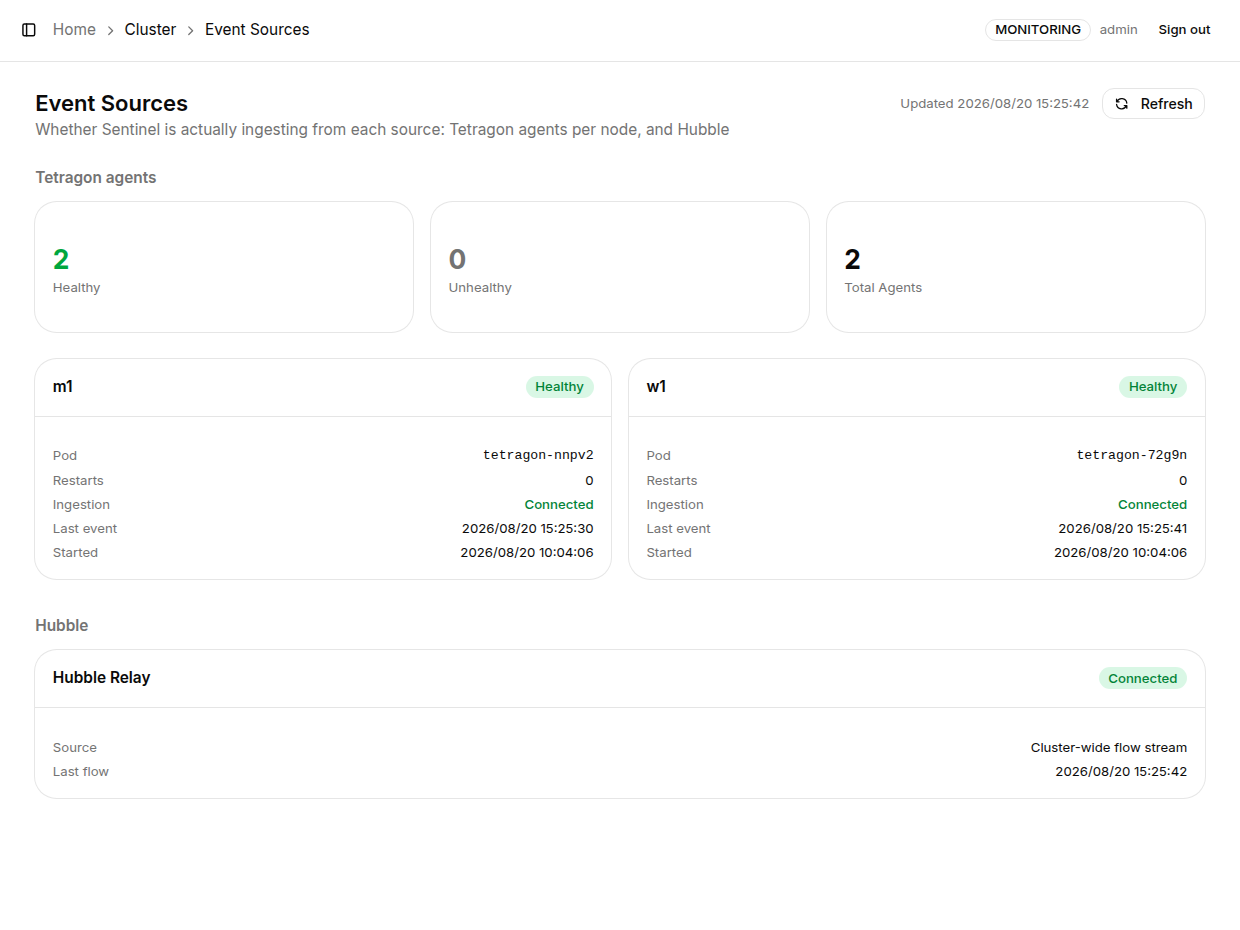
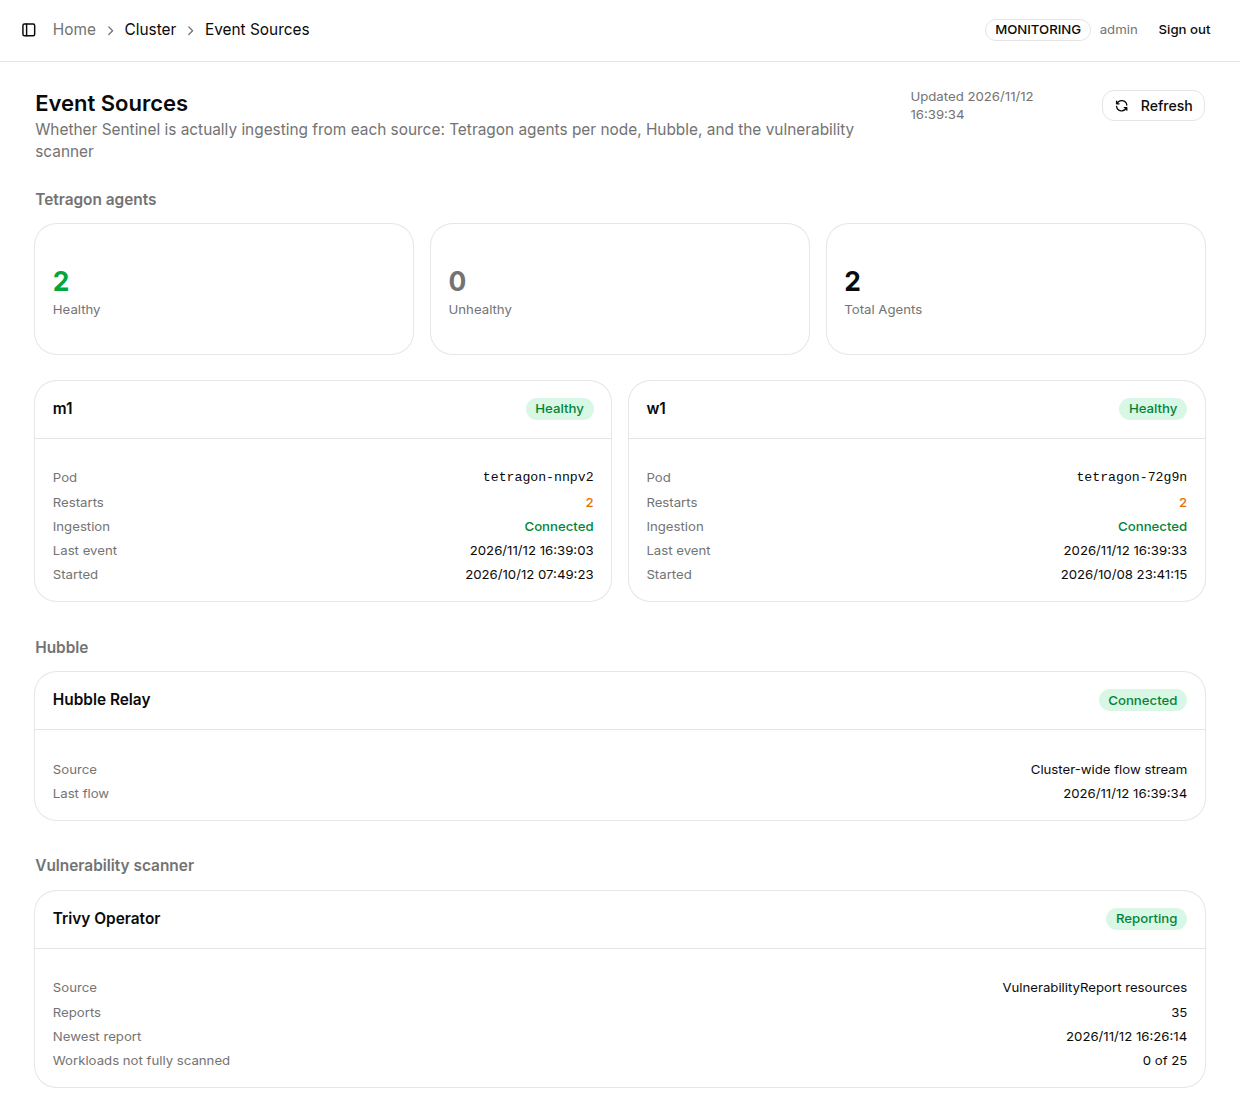
docs: add vulnerability/registry screenshots from the live demo and sync v0.64.0

diff --git a/i18n/en/docusaurus-plugin-content-docs/current/features/vulnerabilities.md b/i18n/en/docusaurus-plugin-content-docs/current/features/vulnerabilities.md
@@ -18,6 +18,10 @@ This feature only **presents and orders** results; it does not block deployments
 
 ## Ordering and Reading the List
 
+![Vulnerabilities Workloads list](/img/features/vulnerabilities/workloads.png)
+
+The summary line above the list shows the number of workloads, the Critical and High totals, and the number of workloads that are "critical and exposed". When a workload has several images, the `Image` column shows the first one with "+N more".
+
 The list columns are `Workload`, `Namespace`, `Image`, `Critical`, `High`, `Medium`, `Low`, `Unknown`, `Fixable` and `Scanned`.
 
 | Behavior | Description |
@@ -49,14 +53,16 @@ The image has to be the same: same repository and tag (or digest); when the repo
 |---|---|
 | **Search workload or image...** | Search by workload name or image |
 | **Namespace filter** | Several namespaces can be selected at once |
-| **Severity** | `Critical` / `High` / `Medium` / `Low` / `Unknown` |
-| **Show only** | `Exposed`, `Fix available`, `Not fully scanned`; the flags can be combined, for example Exposed plus Fix available is a to-do list |
+| **Filter → Severity** | `Critical` / `High` / `Medium` / `Low` / `Unknown` |
+| **Filter → Show only** | `Exposed`, `Fix available`, `Not fully scanned`; the flags can be combined, for example Exposed plus Fix available is a to-do list |
 | **Refresh** | Re-read the cluster immediately |
 | **Export CSV** | Export what is currently on screen, one line per image |
 
 **Expand any row** to see each image's own counts and the finding details, with the columns `Severity`, `ID` (the CVE ID, linking to its advisory), `Package`, `Installed`, `Fixed in` and `Summary` (plus a `Container` column when the workload has several images). Findings are ordered from the highest severity down, and within a severity the ones with a fixed version come first; 50 are shown by default, and clicking "Show all N findings" shows all of them.
 
 If a report cannot be read at the moment you expand the row (Trivy Operator rewrites the report on every rescan), the row says so explicitly instead of showing no findings; click **Refresh** to retry.
+
+![Expanded workload findings](/img/features/vulnerabilities/workload-expanded.png)
 
 ---
 

diff --git a/docs/features/vulnerabilities.md b/docs/features/vulnerabilities.md
@@ -18,6 +18,10 @@ sidebar_position: 11
 
 ## 列表的排序與判讀
 
+![Vulnerabilities Workloads 列表](/img/features/vulnerabilities/workloads.png)
+
+列表上方的摘要列顯示工作負載總數、Critical 與 High 弱點總數，以及「critical and exposed」的工作負載數。工作負載有多個 Image 時，`Image` 欄顯示第一個並標示「+N more」。
+
 列表欄位為 `Workload`、`Namespace`、`Image`、`Critical`、`High`、`Medium`、`Low`、`Unknown`、`Fixable`、`Scanned`。
 
 | 行為 | 說明 |
@@ -49,14 +53,16 @@ Image 必須相同：相同的 repository 與 tag（或 digest）；若取自其
 |---|---|
 | **Search workload or image...** | 以工作負載名稱或 Image 搜尋 |
 | **Namespace 篩選** | 可同時選擇多個 Namespace |
-| **Severity** | `Critical` / `High` / `Medium` / `Low` / `Unknown` |
-| **Show only** | `Exposed`、`Fix available`、`Not fully scanned`，可複選疊加；例如 Exposed 加上 Fix available 就是一份待辦清單 |
+| **Filter → Severity** | `Critical` / `High` / `Medium` / `Low` / `Unknown` |
+| **Filter → Show only** | `Exposed`、`Fix available`、`Not fully scanned`，可複選疊加；例如 Exposed 加上 Fix available 就是一份待辦清單 |
 | **Refresh** | 立即重新讀取叢集 |
 | **Export CSV** | 匯出目前畫面上的內容，每個 Image 一行 |
 
 **展開任一列**可看到各 Image 自己的數量與弱點明細，欄位為 `Severity`、`ID`（CVE 編號，連結至公告）、`Package`、`Installed`、`Fixed in`、`Summary`（工作負載有多個 Image 時另有 `Container` 欄）。明細依嚴重性由高到低排列，同一嚴重性內有修正版本的排前面；預設顯示 50 筆，點擊「Show all N findings」顯示全部。
 
 若展開當下報告無法讀取（Trivy Operator 每次重新掃描都會改寫報告），該列會明確說明，而不是顯示成沒有弱點；按 **Refresh** 重試即可。
+
+![展開工作負載的弱點明細](/img/features/vulnerabilities/workload-expanded.png)
 
 ---
 

diff --git a/i18n/en/docusaurus-plugin-content-docs/current/features/registry-scanning.md b/i18n/en/docusaurus-plugin-content-docs/current/features/registry-scanning.md
@@ -43,6 +43,8 @@ Open "**Vulnerabilities → Registries**" and click "**+ Add Registry**" in the 
 
 After you click "**Save**", the registry's first scan starts immediately.
 
+![Add Registry form with the Test filters result](/img/features/registries/new.png)
+
 ### A Registry With a Certificate Issued by Your Own CA
 
 Since v0.63 you no longer need to check **Skip TLS certificate verification**: paste the contents of the CA's `ca.pem` into **CA certificate**, and the registry is verified against this CA both when K8s Sentinel lists the registry contents and when the scan Pods pull images. The CA is **added to** the list of publicly trusted CAs, not swapped for it, so a scan can still download the vulnerability database.
@@ -79,6 +81,8 @@ Before saving you can click "**Test filters**": it only lists the registry conte
 
 ## Viewing Results
 
+![Registries list](/img/features/registries/list.png)
+
 The Registries list columns are `Registry`, `Filters`, `Schedule`, `Last scan`, `Images`, `Critical`, `High` and `Failed`, and each row offers **Scan now**, **Edit** and **Delete**.
 
 Clicking into a single registry shows each image's `Critical` / `High` / `Medium` / `Low` / `Unknown` / `Fixable` counts and scan time:
@@ -86,6 +90,10 @@ Clicking into a single registry shows each image's `Critical` / `High` / `Medium
 - **Expand an image** to see the finding details, in the same layout as the Workloads page and likewise ordered worst first (v0.62.1+)
 - Search with **Search image...**; filter with **Severity** and **Show only** (`Fix available`, `Scan failed`)
 - Export with **Export CSV**
+
+![Image scan results of one registry](/img/features/registries/detail.png)
+
+![Expanded image findings](/img/features/registries/image-expanded.png)
 
 ### A Failed Scan Is Not Clean
 

diff --git a/docs/features/registry-scanning.md b/docs/features/registry-scanning.md
@@ -43,6 +43,8 @@ Trivy Operator 只會查看叢集內的工作負載，因此這裡的掃描由 *
 
 點擊「**Save**」後，該 Registry 會立即開始第一次掃描。
 
+![Add Registry 表單與 Test filters 結果](/img/features/registries/new.png)
+
 ### 使用自有 CA 簽發憑證的 Registry
 
 v0.63 起不需要再勾選 **Skip TLS certificate verification**：把 CA 的 `ca.pem` 內容貼到 **CA certificate**，K8s Sentinel 列出 Registry 內容與掃描 Pod 拉取 Image 時，都會以這張 CA 驗證。這張 CA 是**加入**公開信任的 CA 清單，而不是取代，因此掃描仍可下載弱點資料庫。
@@ -79,6 +81,8 @@ Filters 的格式是 `repository` 或 `repository:tag`，以 `*` 作為萬用字
 
 ## 查看結果
 
+![Registries 列表](/img/features/registries/list.png)
+
 Registries 列表欄位為 `Registry`、`Filters`、`Schedule`、`Last scan`、`Images`、`Critical`、`High`、`Failed`，每列提供 **Scan now**、**Edit**、**Delete**。
 
 點入單一 Registry 後可看到各 Image 的 `Critical` / `High` / `Medium` / `Low` / `Unknown` / `Fixable` 數量與掃描時間：
@@ -86,6 +90,10 @@ Registries 列表欄位為 `Registry`、`Filters`、`Schedule`、`Last scan`、`
 - **展開 Image** 查看弱點明細，版面與 Workloads 頁面相同，同樣由最嚴重的排起（v0.62.1+）
 - **Search image...** 搜尋；**Severity** 與 **Show only**（`Fix available`、`Scan failed`）篩選
 - **Export CSV** 匯出
+
+![單一 Registry 的 Image 掃描結果](/img/features/registries/detail.png)
+
+![展開 Image 的弱點明細](/img/features/registries/image-expanded.png)
 
 ### 掃描失敗不等於乾淨
 

diff --git a/i18n/en/docusaurus-plugin-content-docs/current/installation/job-install.md b/i18n/en/docusaurus-plugin-content-docs/current/installation/job-install.md
@@ -87,9 +87,15 @@ If the Pod is `Pending` or `CrashLoopBackOff`, use `kubectl describe pod <pod-na
 
 ---
 
+:::note[The Job always installs what is on the main branch]
+The Job fetches `deploy/sentinel.yaml` and `deploy/trivy-operator-values.yaml` from GitHub and does not read your local clone. To install a pinned version or edited manifests, use the [local script installation](./script-install.md) or apply the manifest directly.
+:::
+
+---
+
 ## Cleaning Up the Installer Job (Optional)
 
-After the installation completes, the installer Job with its ServiceAccount and ClusterRoleBinding can be removed (this does not affect the installed K8s Sentinel):
+Since v0.64 the installer Job **removes** its `cluster-admin` ClusterRoleBinding itself as its last step, so no ServiceAccount is left holding cluster-admin in `kube-system`; the Job itself is deleted ten minutes after it finishes. To remove the remaining ServiceAccount as well, run (this does not affect the installed K8s Sentinel):
 
 ```bash
 kubectl delete -f https://raw.githubusercontent.com/cooloo9871/K8s_Sentinel/main/deploy/install-job.yaml

diff --git a/docs/installation/job-install.md b/docs/installation/job-install.md
@@ -87,9 +87,15 @@ sentinel        ClusterIP   10.96.123.45    <none>        80/TCP     3m
 
 ---
 
+:::note[Job 一律安裝 main 分支的內容]
+Job 從 GitHub 取得 `deploy/sentinel.yaml` 與 `deploy/trivy-operator-values.yaml`，不會讀取本機 clone 的檔案。若要安裝固定版本或修改過的 manifest，請改用[本機腳本安裝](./script-install.md)或直接套用 manifest。
+:::
+
+---
+
 ## 清理安裝 Job（選用）
 
-安裝完成後，可移除安裝 Job 及其 ServiceAccount 與 ClusterRoleBinding（不影響已安裝的 K8s Sentinel）：
+v0.64 起，安裝 Job 會在最後一步**自行移除**綁定 `cluster-admin` 的 ClusterRoleBinding，不會在 `kube-system` 留下一個永久持有 cluster-admin 的 ServiceAccount；Job 本身則在完成 10 分鐘後自動刪除。若要一併清除剩下的 ServiceAccount，可執行（不影響已安裝的 K8s Sentinel）：
 
 ```bash
 kubectl delete -f https://raw.githubusercontent.com/cooloo9871/K8s_Sentinel/main/deploy/install-job.yaml

diff --git a/i18n/en/docusaurus-plugin-content-docs/current/installation/index.md b/i18n/en/docusaurus-plugin-content-docs/current/installation/index.md
@@ -36,6 +36,12 @@ Since v0.43, runtime events are collected over gRPC (no more `kubectl exec`). Ex
 Fresh installs (install-job / install.sh) handle all of this automatically.
 :::
 
+:::caution[Upgrading to v0.64+]
+- **Everyone is signed out once**: since v0.64 a session is refused after its account is deleted or its password changes
+- Creating a Tracing Policy under a **name that already exists** is refused instead of replacing the existing policy
+- Re-apply `deploy/sentinel.yaml` to drop the unused cluster-wide `pods/log` permission (optional)
+:::
+
 :::caution[Upgrading to v0.60+ (vulnerability scanning)]
 - **Re-apply `deploy/sentinel.yaml`**: the ClusterRole adds read-only rules for `vulnerabilityreports` and `jobs` (v0.60), plus a Role in `sentinel-system` used by registry scanning (v0.62)
 - **Trivy Operator**: it is not installed automatically on existing environments; see [Installing Trivy Operator](./trivy-operator.md) for how to install and upgrade it

diff --git a/docs/installation/index.md b/docs/installation/index.md
@@ -36,6 +36,12 @@ v0.43 起事件收集改走 gRPC（不再使用 `kubectl exec`），既有環境
 全新安裝（install-job / install.sh）會自動處理，無需手動操作。
 :::
 
+:::caution[升級到 v0.64+]
+- **所有使用者會被登出一次**：v0.64 起帳號被刪除或密碼變更後，其 Session 會被拒絕
+- 以**已存在的名稱**建立 Tracing Policy 會被拒絕，不再覆蓋既有的 policy
+- 可重新套用 `deploy/sentinel.yaml` 以移除不再使用的叢集層級 `pods/log` 權限（選用）
+:::
+
 :::caution[升級到 v0.60+（弱點掃描）]
 - **重新套用 `deploy/sentinel.yaml`**：ClusterRole 新增 `vulnerabilityreports` 與 `jobs` 的唯讀規則（v0.60），以及 `sentinel-system` 內供 Registry 掃描使用的 Role（v0.62）
 - **Trivy Operator**：既有環境不會自動安裝，安裝與升級方式見 [安裝 Trivy Operator](./trivy-operator.md)

diff --git a/docs/features/namespace-view.md b/docs/features/namespace-view.md
@@ -61,7 +61,7 @@ v0.61 起，頁面下方的 **Vulnerability scanner** 區塊以一張 **Trivy Op
 ## 串流異常時的行為
 
 - **任一串流中斷時，Dashboard 會立即出現紅色警示 banner**，Tetragon 統計卡片反映的也是串流狀態而非單純的 Pod readiness
-- 任一節點的串流結束會觸發**全面重連**（v0.50+），修復「單一節點斷線後永遠不再重撥」的問題；已下線縮編的節點會自動從清單移除
+- v0.64 起，單一 Tetragon Agent 無法連線**不再中斷其他節點的事件收集**，之後才加入的節點也會自動連上；已下線縮編的節點會自動從清單移除
 - 串流恢復後，該來源的失敗計數自動歸零
 - 程式化存取：`GET /api/ingestion/health` 回傳所有來源的即時狀態
 

diff --git a/i18n/en/docusaurus-plugin-content-docs/current/features/namespace-view.md b/i18n/en/docusaurus-plugin-content-docs/current/features/namespace-view.md
@@ -61,7 +61,7 @@ The card also shows `Reports` (the number of reports), `Newest report` (the time
 ## Behavior When a Stream Fails
 
 - **A red banner appears on the Dashboard the moment any stream has failed**, and the Tetragon stat card reflects streams rather than plain Pod readiness
-- Any stream ending triggers a **full reconnect** (v0.50+), fixing the case where a single broken node was never redialed; scaled-down nodes are pruned automatically
+- Since v0.64, one unreachable Tetragon agent **no longer interrupts event collection from the other nodes**, and nodes that join later are connected to automatically; scaled-down nodes are pruned automatically
 - A recovered source clears its failure streak
 - Programmatic access: `GET /api/ingestion/health` returns every source's status
 

diff --git a/i18n/en/docusaurus-plugin-content-docs/current/features/tracing-policy.md b/i18n/en/docusaurus-plugin-content-docs/current/features/tracing-policy.md
@@ -68,6 +68,11 @@ Click **"Apply"** when done.
 
 **How it works:** K8s Sentinel automatically generates the corresponding TracingPolicy or TracingPolicyNamespaced YAML from the form data and creates the resource in the cluster via the Kubernetes API Server. The Tetragon Agent applies the new policy within seconds.
 
+:::note[Behavior since v0.64]
+- Creating a policy under a name that already exists is refused instead of replacing the existing policy
+- A policy the form cannot fully represent opens in the YAML editor, so no field is lost on save
+:::
+
 ---
 
 ## Toggle Global Protect Mode

diff --git a/i18n/en/docusaurus-plugin-content-docs/current/features/network-topology.md b/i18n/en/docusaurus-plugin-content-docs/current/features/network-topology.md
@@ -52,6 +52,10 @@ Since v0.61, if Trivy Operator is installed, a red bug icon appears in the **top
 
 The mark follows **the image each Pod is itself running**: a Pod still running an old, unscanned image is not marked on the strength of the scan results of the new image. For the full list of vulnerabilities, see [Workload Vulnerabilities](./vulnerabilities.md).
 
+![A Pod with the vulnerability mark and its detail panel](/img/features/network-topology/vulnerability-marker.png)
+
+When such a Pod is on screen, the legend gains a "Critical CVEs" entry.
+
 ---
 
 ## Filters and View Options
